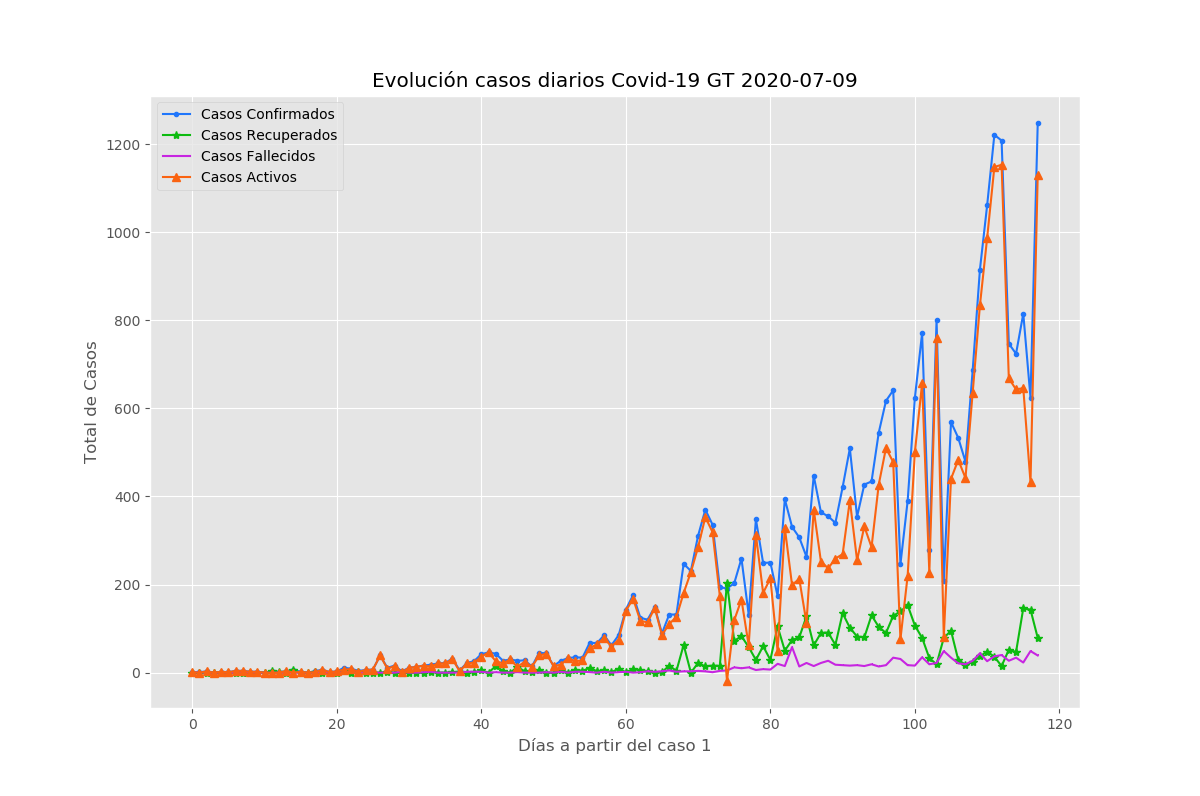
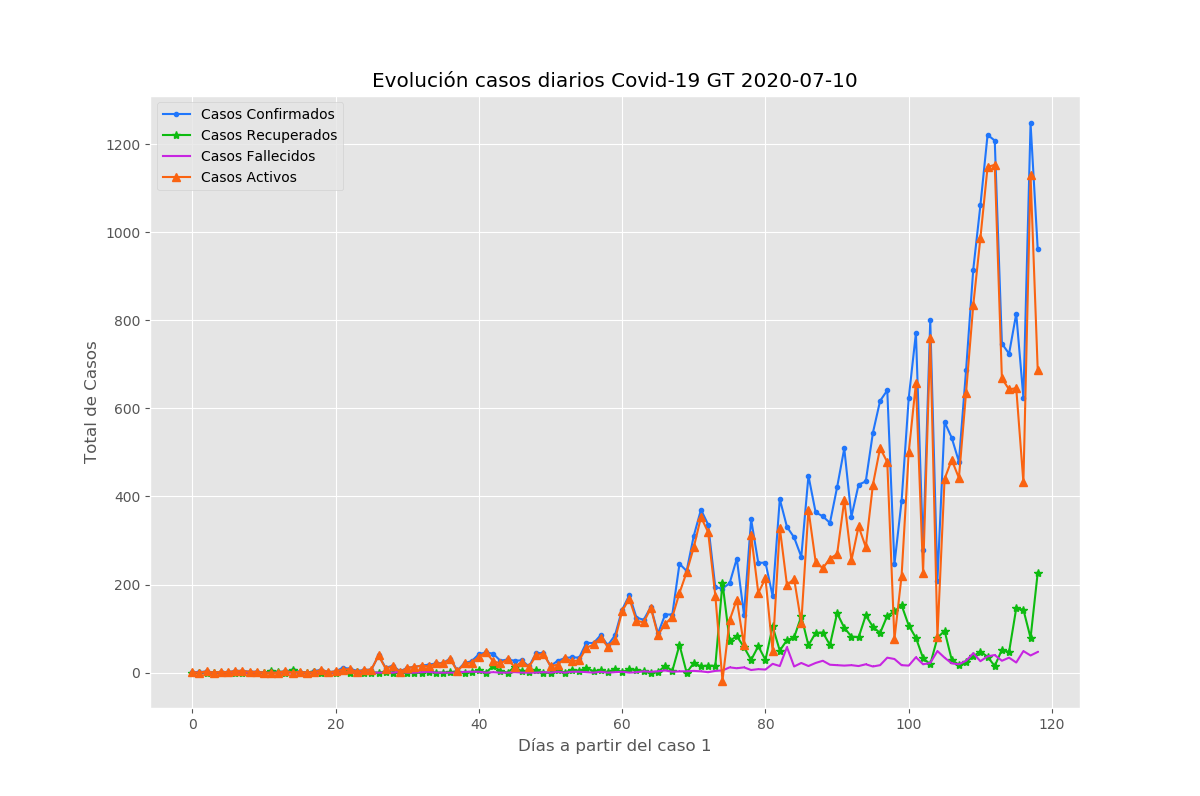
Actualizacion 11julio2020

diff --git a/_posts/2020-06-26-Estadisticos_Graficos.md b/_posts/2020-06-26-Estadisticos_Graficos.md
@@ -12,15 +12,15 @@ Estas gráficas son generadas a partir de los datos en [nuestro repositorio](htt
 
 # Estadísticos Relevantes, actualizados 10 julio 2020:
 
-confirmados:  27619
+confirmados:  28598
 
-recuperados:  4024
+recuperados:  4073
 
-fallecidos:  1139
+fallecidos:  1172
 
-activos:  22454
+activos:  23351
 
-pruebas realizadas:  105363
+pruebas realizadas:  107806
 
 # Gráficas
 
